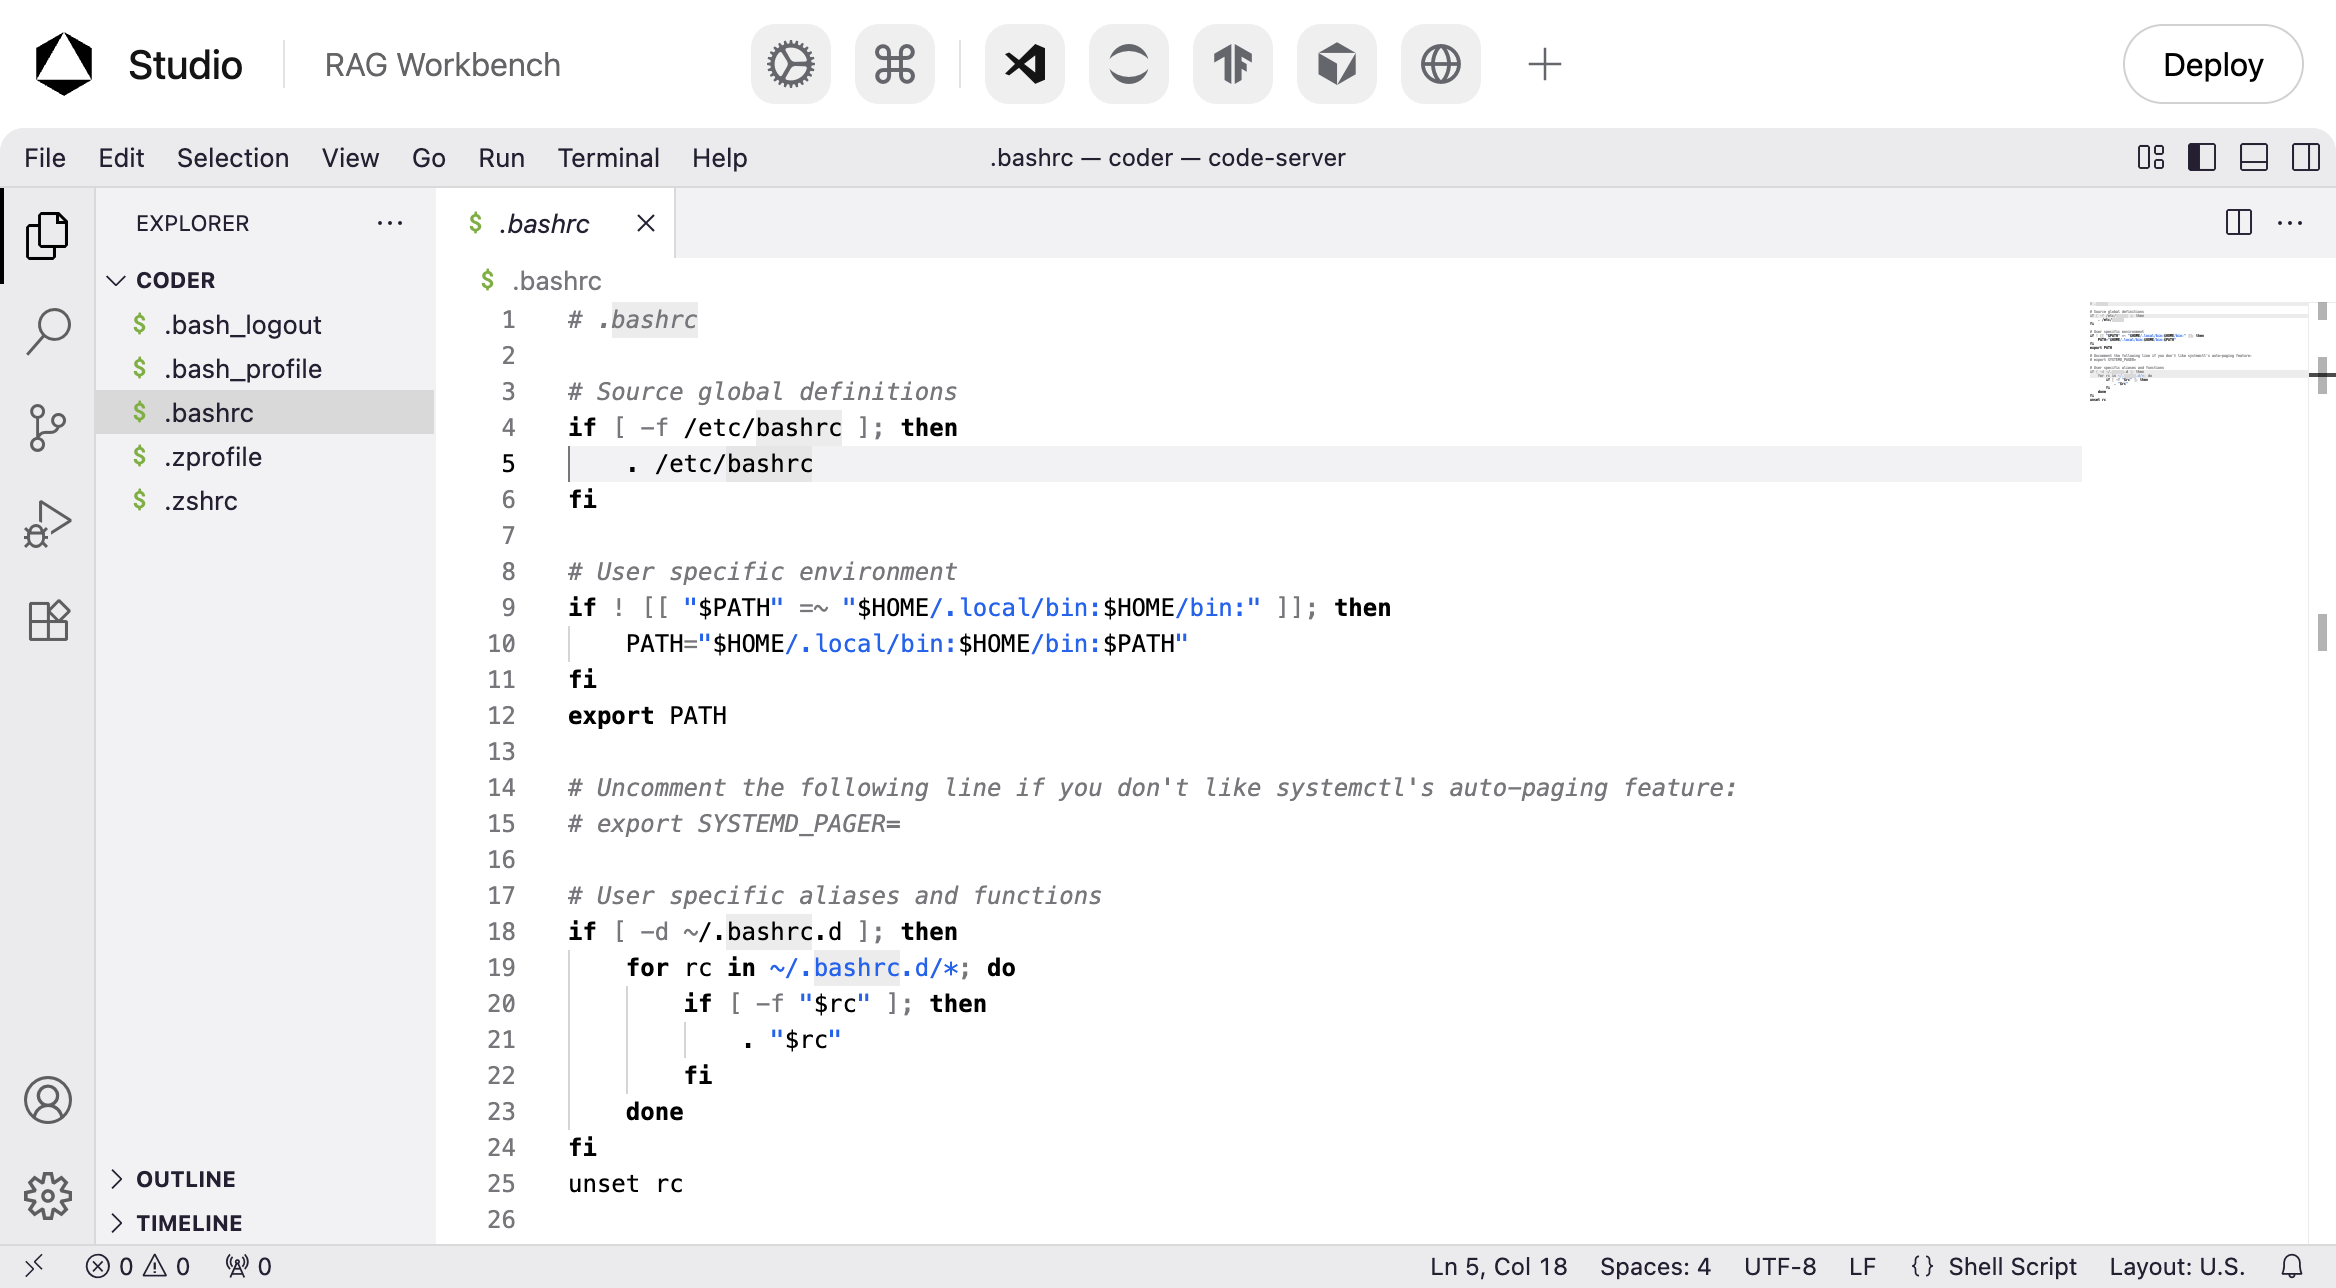
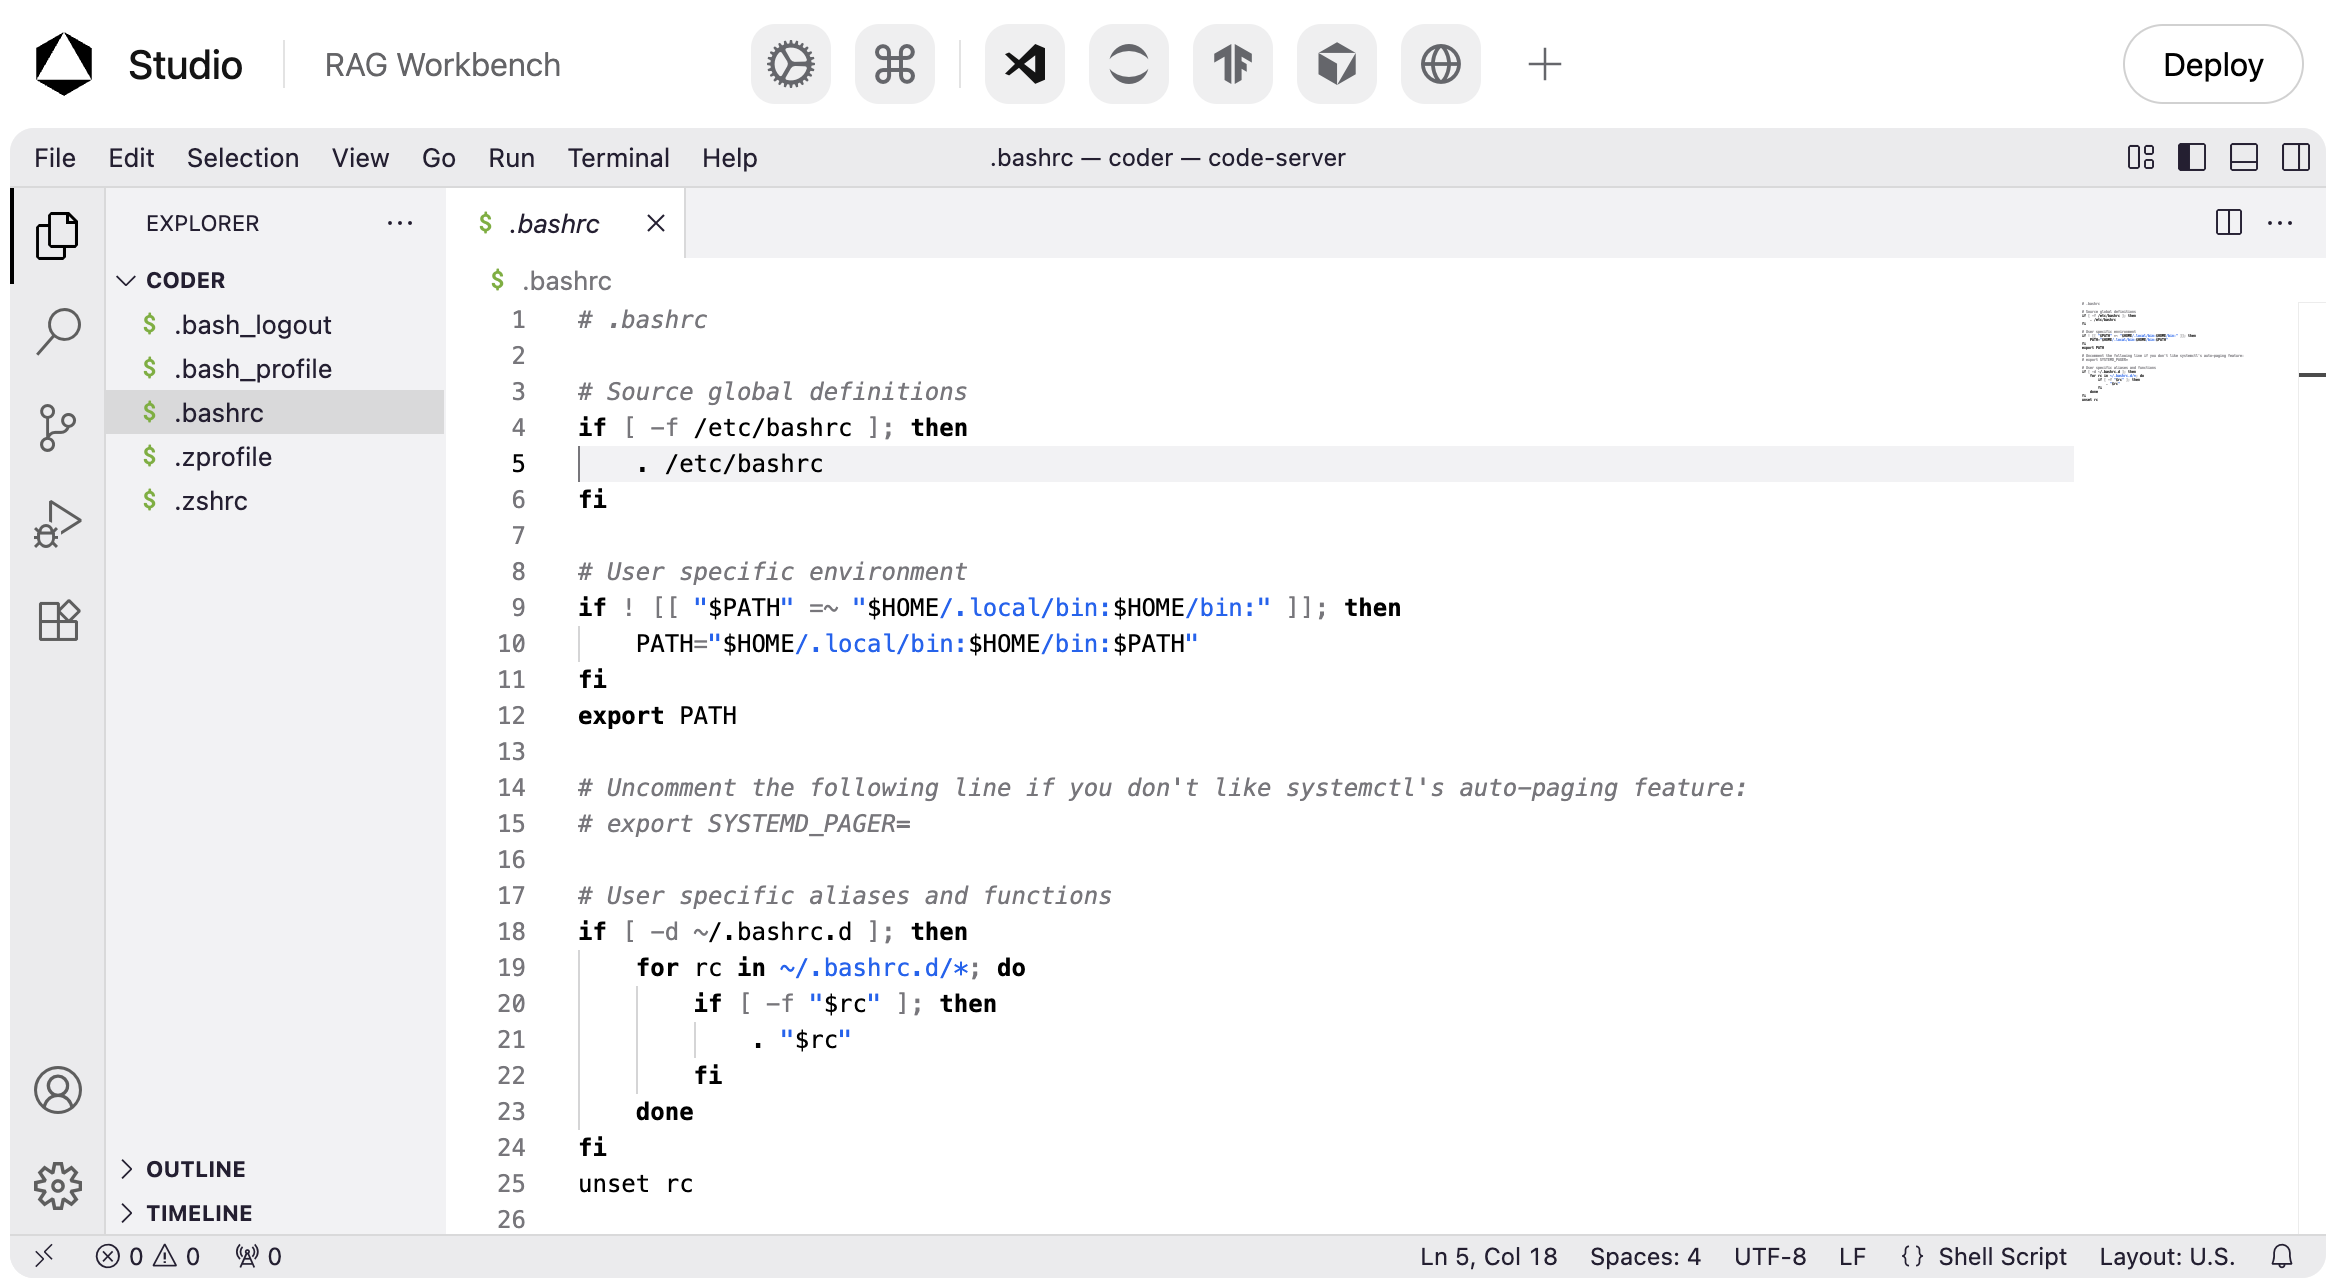
Make theme slightly lighter

diff --git a/data/styles/pages/_studio.scss b/data/styles/pages/_studio.scss
@@ -1,10 +1,10 @@
 .content__studio {
     height: 100%;
+    padding: 0 5px 5px 5px;
 
     .studio__content {
         height: 100%;
         overflow: hidden;
-        border-top-left-radius: 0.75rem;
-        border-top-right-radius: 0.75rem;
+        border-radius: 0.75rem;
     }
 }

diff --git a/doc/_ext/theme/styles/components/_slider.scss b/doc/_ext/theme/styles/components/_slider.scss
@@ -1,7 +1,7 @@
 .slider {
     position: relative;
     border-radius: 2rem;
-    background: #66676b;
+    background: #eeeef0;
     padding: 5rem 6.5rem 0;
     margin: 0 auto;
     width: 100%;
